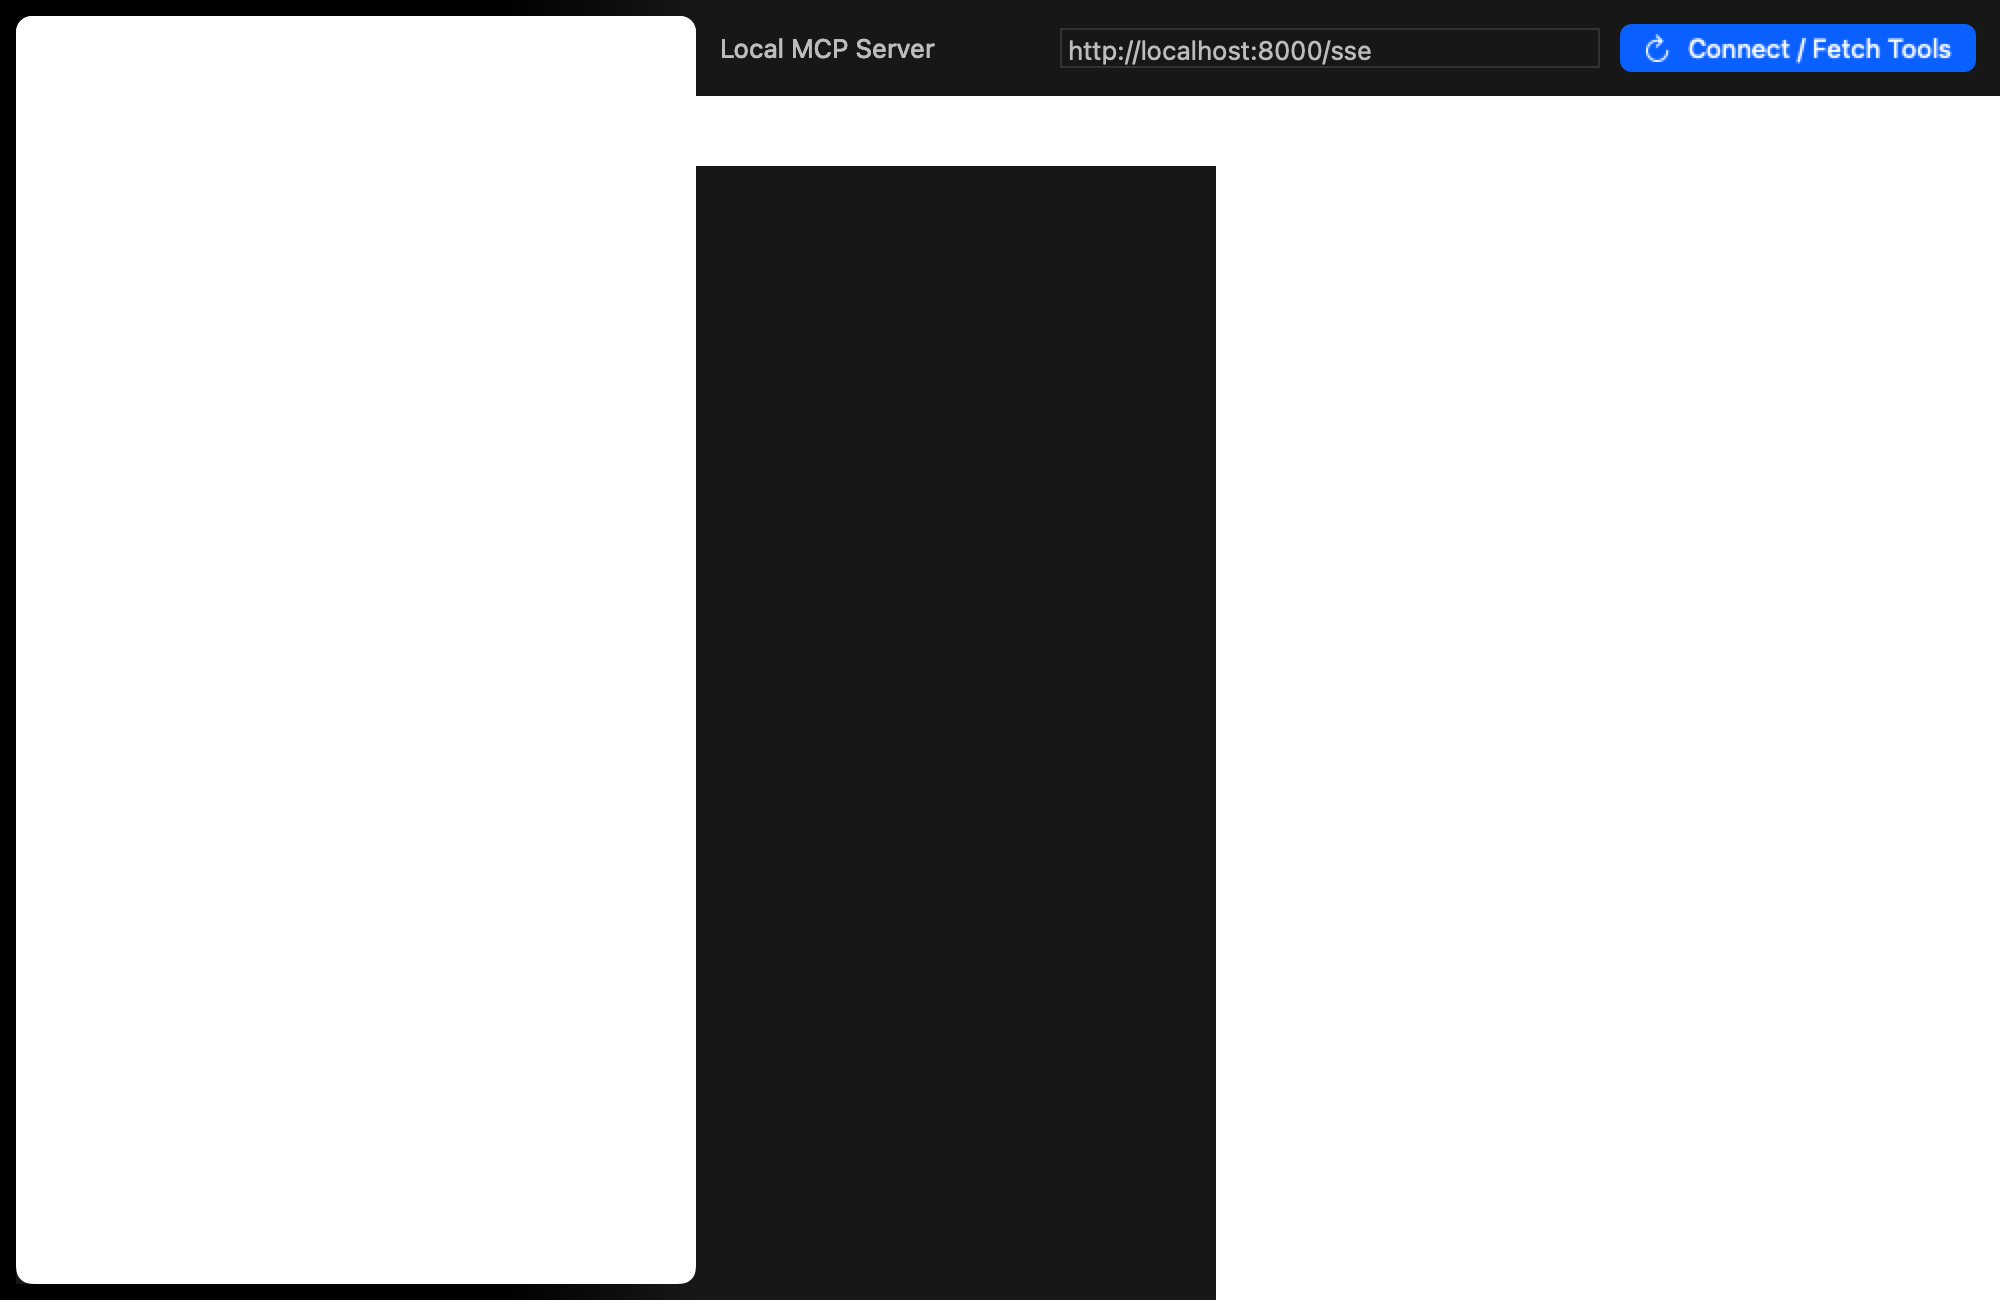
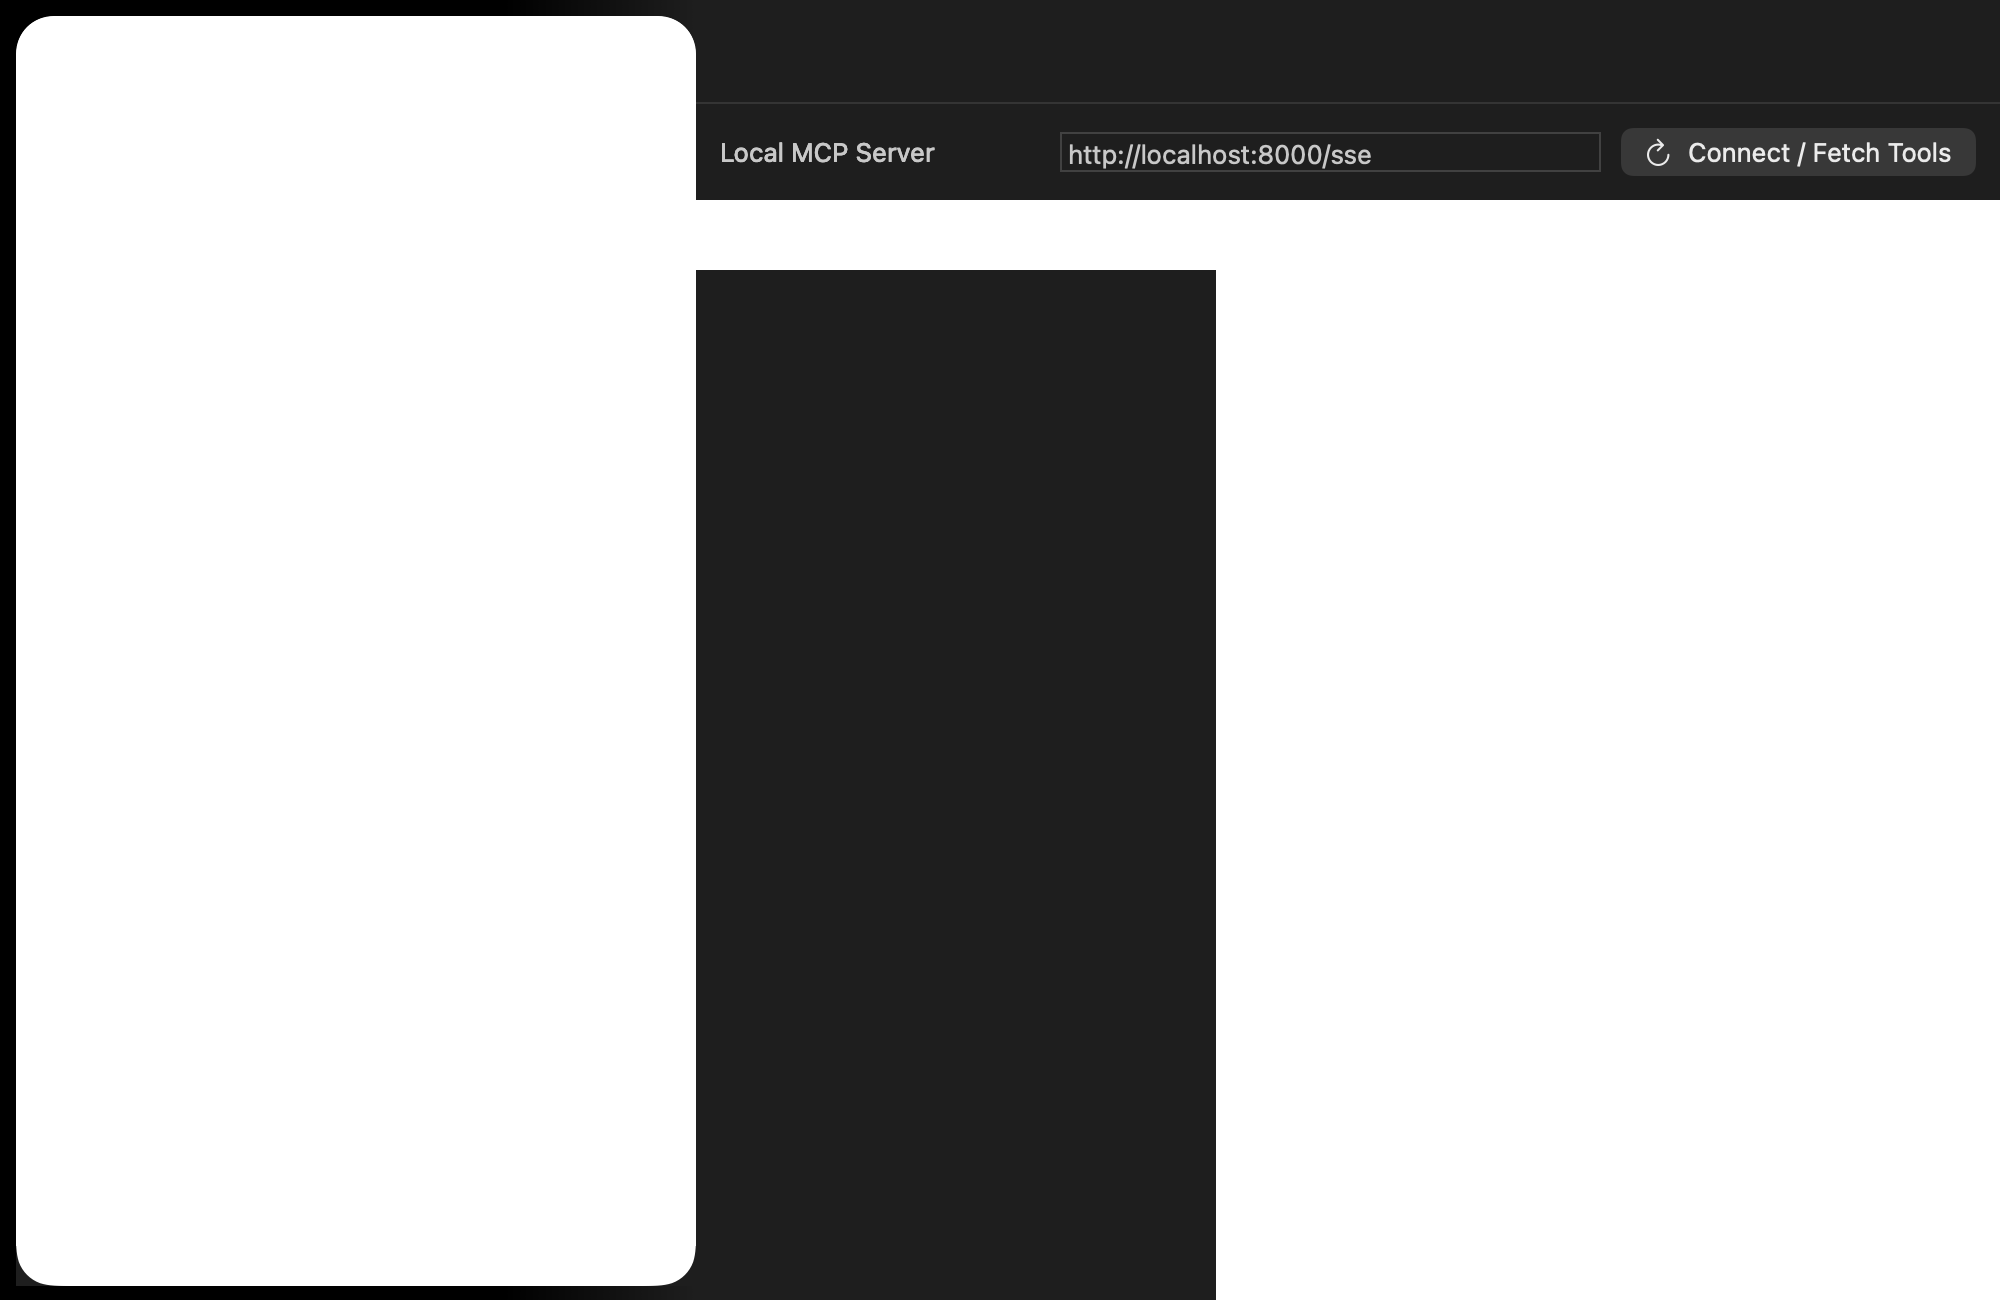
Fix dark mode appearance rendering for documentation screenshots

diff --git a/scripts/render_screenshots.swift b/scripts/render_screenshots.swift
@@ -4,17 +4,23 @@ import SwiftUI
 
 @MainActor
 func renderAndSave<V: View>(_ view: V, width: CGFloat, height: CGFloat, to path: String) {
+    let window = NSWindow(
+        contentRect: CGRect(x: 0, y: 0, width: width, height: height),
+        styleMask: [.titled, .fullSizeContentView],
+        backing: .buffered,
+        defer: false
+    )
+    window.appearance = NSAppearance(named: .darkAqua)
     let hostingView = NSHostingView(rootView: view)
-    hostingView.frame = CGRect(x: 0, y: 0, width: width, height: height)
+    window.contentView = hostingView
+    window.layoutIfNeeded()
     
-    hostingView.layoutSubtreeIfNeeded()
-    
-    let imageRepresentation = hostingView.bitmapImageRepForCachingDisplay(in: hostingView.bounds)!
-    hostingView.cacheDisplay(in: hostingView.bounds, to: imageRepresentation)
-    
-    if let pngData = imageRepresentation.representation(using: .png, properties: [:]) {
-        try? pngData.write(to: URL(fileURLWithPath: path))
-        print("Saved \(path)")
+    if let imageRepresentation = hostingView.bitmapImageRepForCachingDisplay(in: hostingView.bounds) {
+        hostingView.cacheDisplay(in: hostingView.bounds, to: imageRepresentation)
+        if let pngData = imageRepresentation.representation(using: .png, properties: [:]) {
+            try? pngData.write(to: URL(fileURLWithPath: path))
+            print("Saved \(path)")
+        }
     }
 }
 

diff --git a/Tests/PostTests/PostTests.swift b/Tests/PostTests/PostTests.swift
@@ -111,9 +111,17 @@ struct PostTests {
 
     @MainActor
     private func renderView<V: View>(_ view: V, to path: String) {
+        let window = NSWindow(
+            contentRect: CGRect(x: 0, y: 0, width: 1000, height: 650),
+            styleMask: [.titled, .fullSizeContentView],
+            backing: .buffered,
+            defer: false
+        )
+        window.appearance = NSAppearance(named: .darkAqua)
         let hostingView = NSHostingView(rootView: view)
-        hostingView.frame = CGRect(x: 0, y: 0, width: 1000, height: 650)
-        hostingView.layoutSubtreeIfNeeded()
+        window.contentView = hostingView
+        window.layoutIfNeeded()
+        
         if let imageRep = hostingView.bitmapImageRepForCachingDisplay(in: hostingView.bounds) {
             hostingView.cacheDisplay(in: hostingView.bounds, to: imageRep)
             if let pngData = imageRep.representation(using: .png, properties: [:]) {
